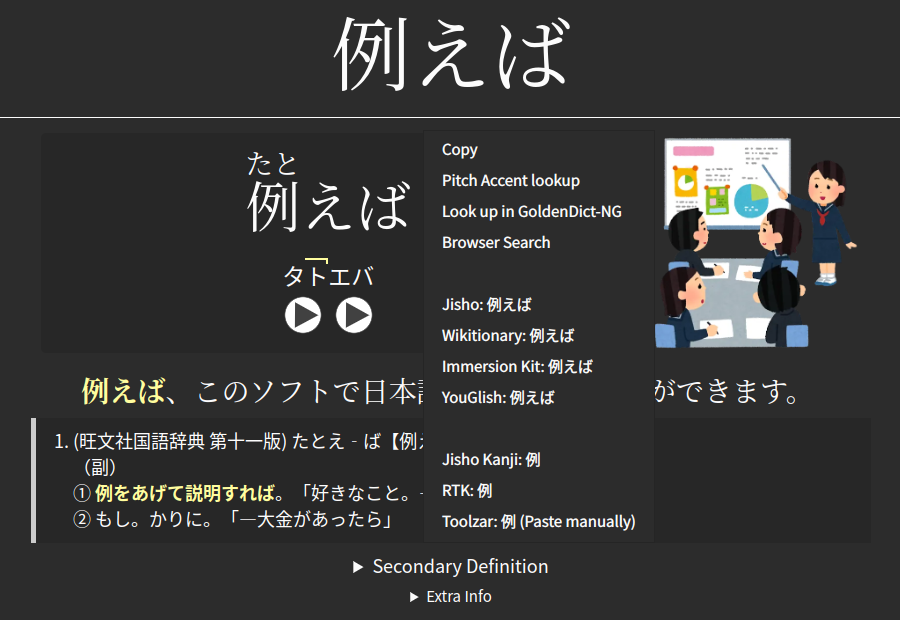
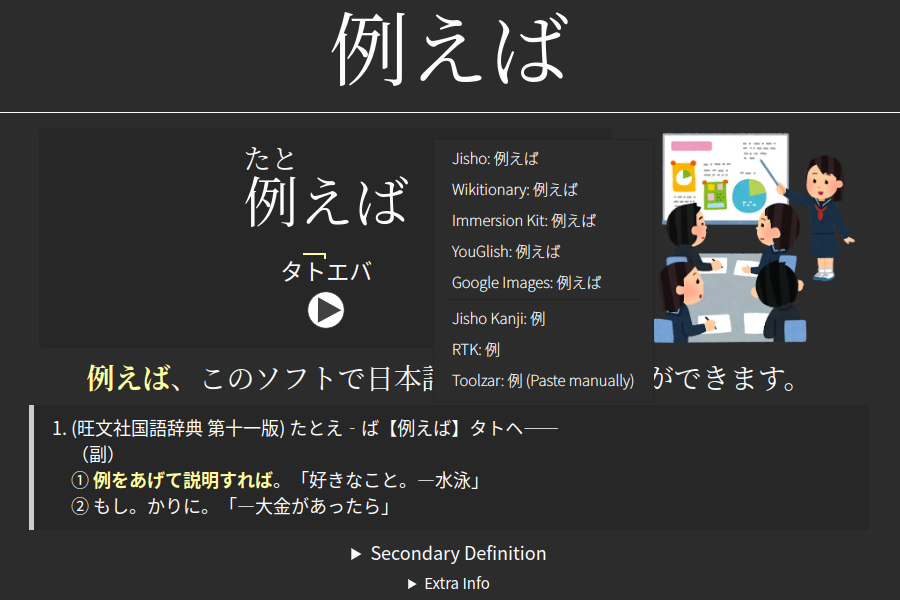
Add Google Images and Separators

diff --git a/__init__.py b/__init__.py
@@ -8,6 +8,7 @@ WIKITIONARY_URL = "https://en.wiktionary.org/wiki/"
 TOOLZAR_URL = "https://kanji.toolzar.com/"
 YOUGLISH_URL = "https://youglish.com/pronounce/"
 IMMERSION_KIT_URL = "https://www.immersionkit.com/dictionary?keyword="
+GOOGLE_IMAGES_URL = "https://www.google.com/search?udm=2&q="
 
 def keep_kanji(text):
     kanji = [x for x in text if 19968 <= ord(x) <= 40895]
@@ -22,7 +23,8 @@ def add_to_context_menu(view, menu):
         else:
             selected = selected.note().fields[0]
 
-    gap = menu.addAction(" ")
+    if menu.actions():
+        menu.addSeparator()
 
     # Search Everything
     jisho = menu.addAction("Jisho: " + selected)
@@ -33,13 +35,15 @@ def add_to_context_menu(view, menu):
     immersion_kit.triggered.connect(lambda: QDesktopServices.openUrl(QUrl(IMMERSION_KIT_URL + selected)))
     youglish = menu.addAction("YouGlish: " + selected)
     youglish.triggered.connect(lambda: QDesktopServices.openUrl(QUrl(YOUGLISH_URL + selected + "/japanese")))
+    google_images = menu.addAction("Google Images: " + selected)
+    google_images.triggered.connect(lambda: QDesktopServices.openUrl(QUrl(GOOGLE_IMAGES_URL + selected)))
 
     # Search Kanji Only
     selected_kanji = keep_kanji(selected)
     if not selected_kanji:
         return
 
-    gap2 = menu.addAction(" ")
+    menu.addSeparator()
 
     jishoKanji = menu.addAction("Jisho Kanji: " + selected_kanji)
     jishoKanji.triggered.connect(lambda: QDesktopServices.openUrl(QUrl(JISHO_URL + selected_kanji + " %23kanji")))
